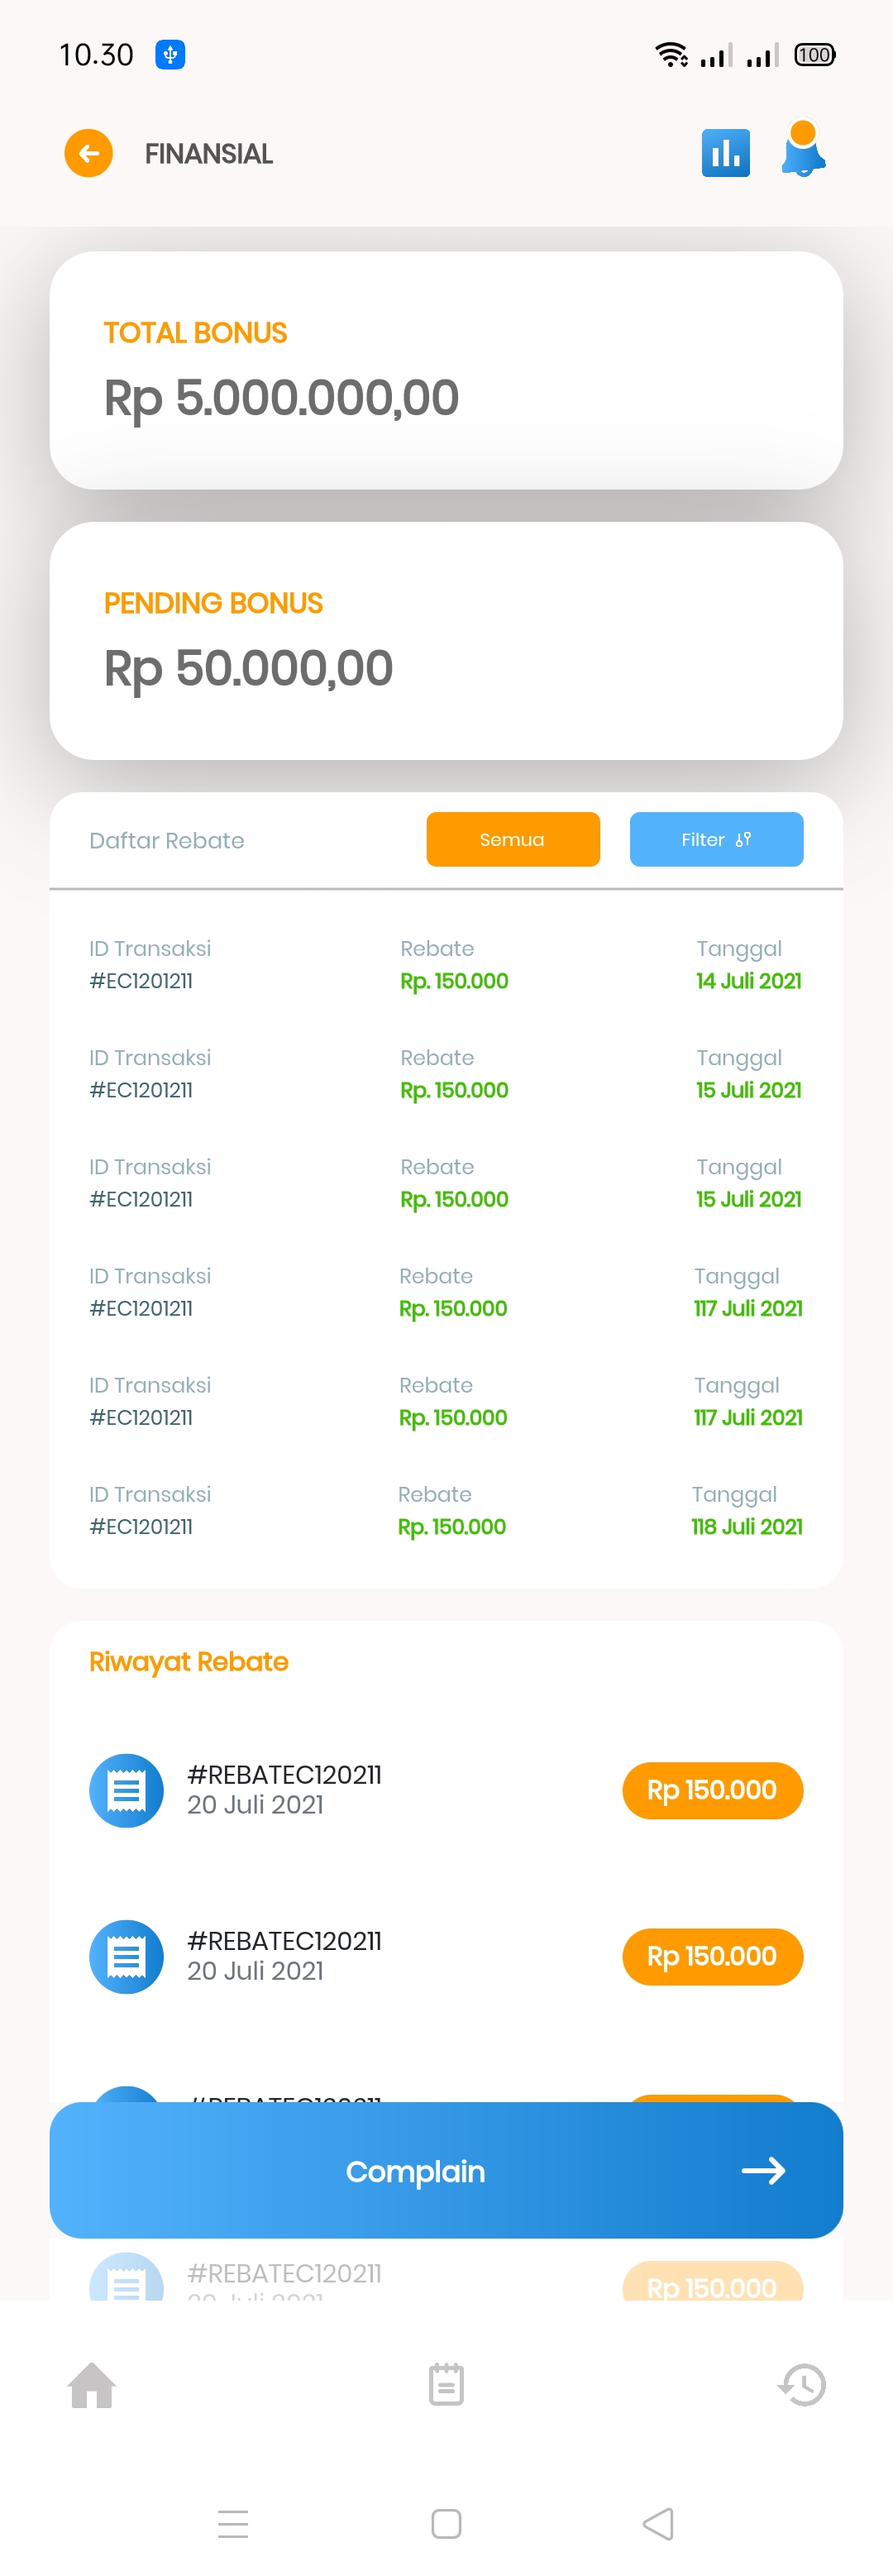
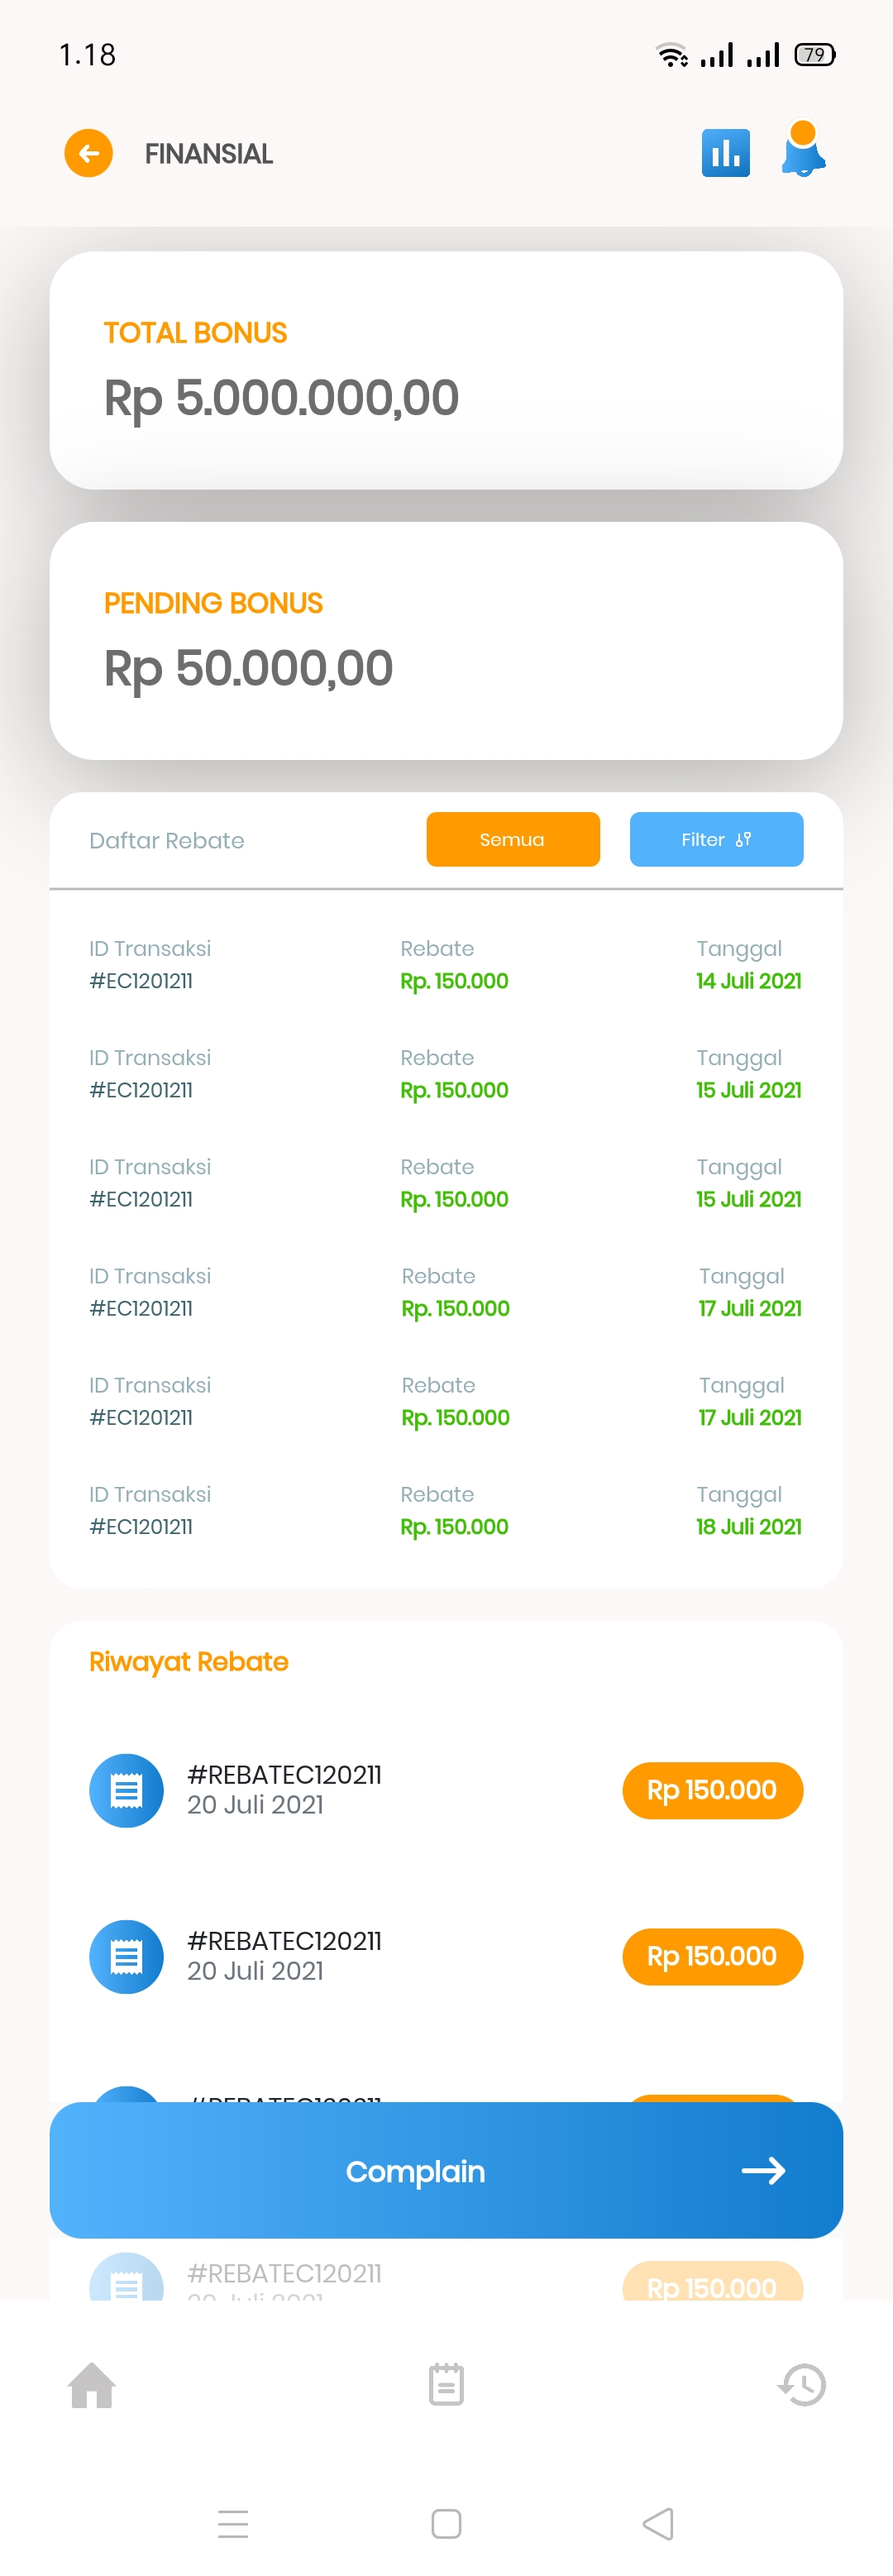
last fix

diff --git a/lib/app/modules/tes3/views/tes3_view.dart b/lib/app/modules/tes3/views/tes3_view.dart
@@ -1,9 +1,7 @@
 import 'package:flutter/material.dart';
 import 'package:flutter_screenutil/flutter_screenutil.dart';
 import 'package:get/get.dart';
-import 'dart:math';
 import 'package:tes_ordo_ui_engineer/app/shared/assets.dart';
-import 'package:tes_ordo_ui_engineer/app/shared/widgets/navBar.dart';
 import 'package:tes_ordo_ui_engineer/app/shared/widgets/noScrollGlow.dart';
 
 // My widget
@@ -12,6 +10,7 @@ import 'widgets/cardTotal.dart';
 import 'widgets/contenRebate.dart';
 import 'widgets/contenRiwayatRebate.dart';
 import 'widgets/appBar.dart';
+import 'widgets/flotingButton.dart';
 
 class Tes3View extends GetView<Tes3Controller> {
   @override
@@ -69,85 +68,4 @@ class Tes3View extends GetView<Tes3Controller> {
   }
 }
 
-class FluttingButtonCustom extends StatelessWidget {
-  const FluttingButtonCustom({
-    Key? key,
-  }) : super(key: key);
 
-  @override
-  Widget build(BuildContext context) {
-    final controller = Get.find<Tes3Controller>();
-    return Container(
-        height: 80 + 68.h,
-        width: double.infinity,
-        child: Column(
-          children: [
-            Stack(
-              children: [
-                Container(
-                  height: 80.h,
-                  margin: EdgeInsets.symmetric(horizontal: 20.w),
-                  width: double.infinity,
-                  color: Colors.white70,
-                ),
-                Container(
-                  margin: EdgeInsets.symmetric(horizontal: 20.w),
-                  child: Material(
-                    child: InkWell(
-                      borderRadius: BorderRadius.circular(13.r),
-                      onTap: () {},
-                      child: Container(
-                        height: 55.h,
-                        decoration: BoxDecoration(
-                          borderRadius: BorderRadius.circular(13.r),
-                          gradient: LinearGradient(
-                            begin: Alignment.centerLeft,
-                            end: Alignment.centerRight,
-                            colors: [
-                              Color(0xff53B2FC),
-                              Color(0xff127CCE),
-                            ],
-                          ),
-                        ),
-                        child: Row(
-                          children: [
-                            SizedBox(
-                              width: 20.w,
-                            ),
-                            Spacer(),
-                            Text(
-                              'Complain',
-                              style: TextStyle(
-                                fontWeight: FontWeight.w900,
-                                color: Colors.white,
-                                fontSize: 11.5.sp,
-                              ),
-                            ),
-                            Spacer(),
-                            Transform.rotate(
-                              angle: 180 * pi / 180,
-                              child: Icon(
-                                Icons.keyboard_backspace_rounded,
-                                color: Colors.white,
-                              ),
-                            ),
-                            SizedBox(
-                              width: 20.w,
-                            ),
-                          ],
-                        ),
-                      ),
-                    ),
-                  ),
-                ),
-              ],
-            ),
-            NavBar(
-              padding: 12,
-              mainAxisAlignment: MainAxisAlignment.spaceBetween,
-              listData: controller.navBarData,
-            )
-          ],
-        ));
-  }
-}

diff --git a/lib/app/modules/tes3/views/widgets/flotingButton.dart b/lib/app/modules/tes3/views/widgets/flotingButton.dart
@@ -1,0 +1,89 @@
+import 'package:flutter/material.dart';
+import 'package:get/get.dart';
+import 'package:flutter_screenutil/flutter_screenutil.dart';
+import 'package:tes_ordo_ui_engineer/app/modules/tes3/controllers/tes3_controller.dart';
+import 'package:tes_ordo_ui_engineer/app/shared/widgets/navBar.dart';
+import 'dart:math';
+
+class FluttingButtonCustom extends StatelessWidget {
+  const FluttingButtonCustom({
+    Key? key,
+  }) : super(key: key);
+
+  @override
+  Widget build(BuildContext context) {
+    final controller = Get.find<Tes3Controller>();
+    return Container(
+        height: 80 + 68.h,
+        width: double.infinity,
+        child: Column(
+          children: [
+            Stack(
+              children: [
+                Container(
+                  height: 80.h,
+                  margin: EdgeInsets.symmetric(horizontal: 20.w),
+                  width: double.infinity,
+                  color: Colors.white70,
+                ),
+                Container(
+                  margin: EdgeInsets.symmetric(horizontal: 20.w),
+                  child: Material(
+                    child: InkWell(
+                      borderRadius: BorderRadius.circular(13.r),
+                      onTap: () {},
+                      child: Container(
+                        height: 55.h,
+                        decoration: BoxDecoration(
+                          borderRadius: BorderRadius.circular(13.r),
+                          gradient: LinearGradient(
+                            begin: Alignment.centerLeft,
+                            end: Alignment.centerRight,
+                            colors: [
+                              Color(0xff53B2FC),
+                              Color(0xff127CCE),
+                            ],
+                          ),
+                        ),
+                        child: Row(
+                          children: [
+                            SizedBox(
+                              width: 20.w,
+                            ),
+                            Spacer(),
+                            Text(
+                              'Complain',
+                              style: TextStyle(
+                                fontWeight: FontWeight.w900,
+                                color: Colors.white,
+                                fontSize: 11.5.sp,
+                              ),
+                            ),
+                            Spacer(),
+                            Transform.rotate(
+                              angle: 180 * pi / 180,
+                              child: Icon(
+                                Icons.keyboard_backspace_rounded,
+                                color: Colors.white,
+                              ),
+                            ),
+                            SizedBox(
+                              width: 20.w,
+                            ),
+                          ],
+                        ),
+                      ),
+                    ),
+                  ),
+                ),
+              ],
+            ),
+            NavBar(
+              padding: 12,
+              mainAxisAlignment: MainAxisAlignment.spaceBetween,
+              listData: controller.navBarData,
+            )
+          ],
+        ));
+  }
+}

diff --git a/lib/app/modules/tes3/views/widgets/riwayatrebate.dart b/lib/app/modules/tes3/views/widgets/riwayatrebate.dart
@@ -31,8 +31,8 @@ class RiwayatRebate extends StatelessWidget {
                 ),
               ),
               padding: EdgeInsets.symmetric(
-                horizontal: 6.w,
-                vertical: 6.h,
+                horizontal: 7.4.w,
+                vertical: 7.4.h,
               ),
               child: Image.asset(
                 '$iconsPath/biling.png',

diff --git a/lib/app/modules/tes3/controllers/tes3_controller.dart b/lib/app/modules/tes3/controllers/tes3_controller.dart
@@ -4,7 +4,7 @@ import 'package:tes_ordo_ui_engineer/app/shared/assets.dart';
 
 class Tes3Controller extends GetxController {
 
-  final List<int> text = [4,5,5,17,17,18];
+  final List<int> text = [4,5,5,7,7,8];
   final textDisableColor = Color(0xff94AFB6);
   final textOrangeColor = Color(0xffFF9A00);
   final textIncomeColor = Color(0xff41BE06);

diff --git a/README.md b/README.md
@@ -2,11 +2,11 @@
 
 App ini di buat untuk tes ui ORDO Mobile Developer.
 
-## TES ":"
+## TES
 
 1.Tes 1
 
-![github-small](assets/images/Tes1.jpg)
+![github-small](assets/images/Tes.jpg)
 
 1.Tes 2
 
